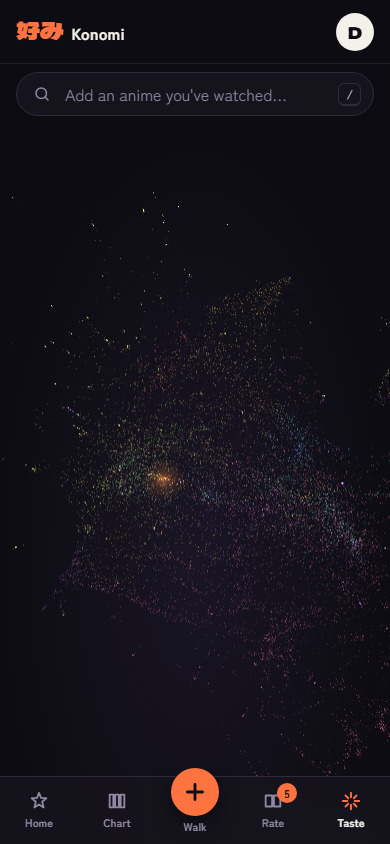
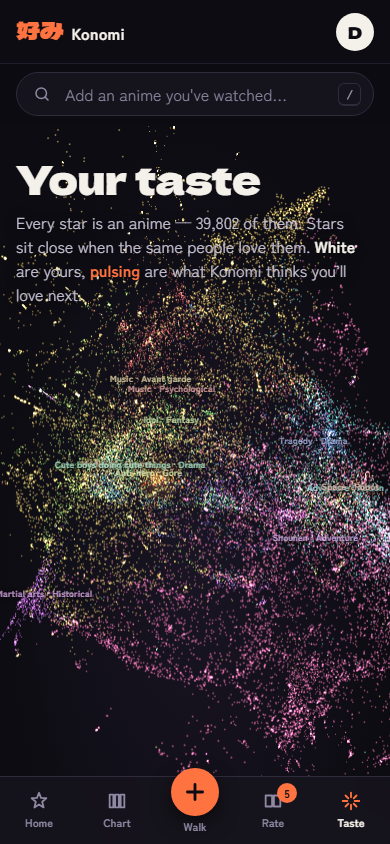
Galaxy cluster labels

diff --git a/web/src/features/taste/Galaxy.tsx b/web/src/features/taste/Galaxy.tsx
@@ -1,4 +1,4 @@
-import { OrbitControls } from '@react-three/drei'
+import { Html, OrbitControls } from '@react-three/drei'
 import { Canvas, useFrame, type ThreeEvent } from '@react-three/fiber'
 import { useMemo, useRef, useState } from 'react'
 import * as THREE from 'three'
@@ -115,8 +115,32 @@ function Glow({ at, color }: { at: [number, number, number]; color: string }) {
   )
 }
 
-export function GalaxyCanvas({ points, mine, recs, centroid, accent, onHover, onPick }: {
-  points: Point[]; mine: Map<number, number | null>; recs: Set<number>; centroid: [number, number, number] | null
+function ClusterLabels({ points, clusters }: { points: Point[]; clusters: ClusterMeta[] }) {
+  const labels = useMemo(() => {
+    const sum = new Map<number, [number, number, number, number]>()
+    for (const p of points) {
+      const s = sum.get(p[4]) ?? [0, 0, 0, 0]
+      sum.set(p[4], [s[0] + p[1], s[1] + p[2], s[2] + p[3], s[3] + 1])
+    }
+    return [...clusters].sort((a, b) => b.size - a.size).slice(0, 9).map((c) => {
+      const s = sum.get(c.id) ?? [0, 0, 0, 1]
+      return { id: c.id, label: c.label, at: [s[0] / s[3] * SCALE, s[1] / s[3] * SCALE, s[2] / s[3] * SCALE] as [number, number, number] }
+    })
+  }, [points, clusters])
+  return (
+    <>
+      {labels.map((l) => (
+        <Html key={l.id} position={l.at} center zIndexRange={[1, 0]} style={{ pointerEvents: 'none' }}>
+          <span className="g-label" style={{ color: `#${clusterColor(l.id).getHexString()}` }}>{l.label}</span>
+        </Html>
+      ))}
+    </>
+  )
+}
+
+export function GalaxyCanvas({ points, clusters, mine, recs, centroid, accent, onHover, onPick }: {
+  points: Point[]; clusters: ClusterMeta[]; mine: Map<number, number | null>; recs: Set<number>
+  centroid: [number, number, number] | null
   accent: string; onHover: (id: number | null, e?: { x: number; y: number }) => void; onPick: (id: number) => void
 }) {
   const [moving, setMoving] = useState(false)
@@ -127,6 +151,7 @@ export function GalaxyCanvas({ points, mine, recs, centroid, accent, onHover, on
       onPointerMissed={() => onHover(null)}>
       <Stars points={points} mine={mine} recs={recs} accent={accent} onHover={moving ? () => undefined : onHover} onPick={onPick} />
       {centroid && <Glow at={centroid} color={accent} />}
+      <ClusterLabels points={points} clusters={clusters} />
       <OrbitControls enableDamping dampingFactor={0.08} autoRotate autoRotateSpeed={0.35} target={target}
         minDistance={2.5} maxDistance={22} onStart={() => setMoving(true)} onEnd={() => setMoving(false)} />
     </Canvas>

diff --git a/web/src/features/taste/TastePage.tsx b/web/src/features/taste/TastePage.tsx
@@ -123,7 +123,7 @@ export default function TastePage() {
     <div className="taste" data-season="FALL">
       <section className="g-stage">
         {galaxy.data && (
-          <div className="g-canvas"><GalaxyCanvas points={galaxy.data.points} mine={mine} recs={recSet} centroid={me.data?.centroid ?? null}
+          <div className="g-canvas"><GalaxyCanvas points={galaxy.data.points} clusters={galaxy.data.clusters} mine={mine} recs={recSet} centroid={me.data?.centroid ?? null}
             accent={ACCENT} onHover={(id, at) => setHover(id != null && at ? { id, at } : null)}
             onPick={(id) => nav(`/anime/${id}`)} /></div>
         )}

diff --git a/web/src/features/taste/taste.css b/web/src/features/taste/taste.css
@@ -69,3 +69,9 @@
   .net-mid { left: 30%; width: 40%; }
   .net-mid li { left: 50%; transform: translate(-50%, -50%); }
 }
+
+.g-label {
+  display: block; white-space: nowrap; font-size: 11px; font-weight: 700; letter-spacing: 0.02em; opacity: 0.8;
+  text-shadow: 0 1px 6px var(--ink), 0 0 2px var(--ink); user-select: none;
+}
+@media (max-width: 640px) { .g-label { font-size: 9px; } }
